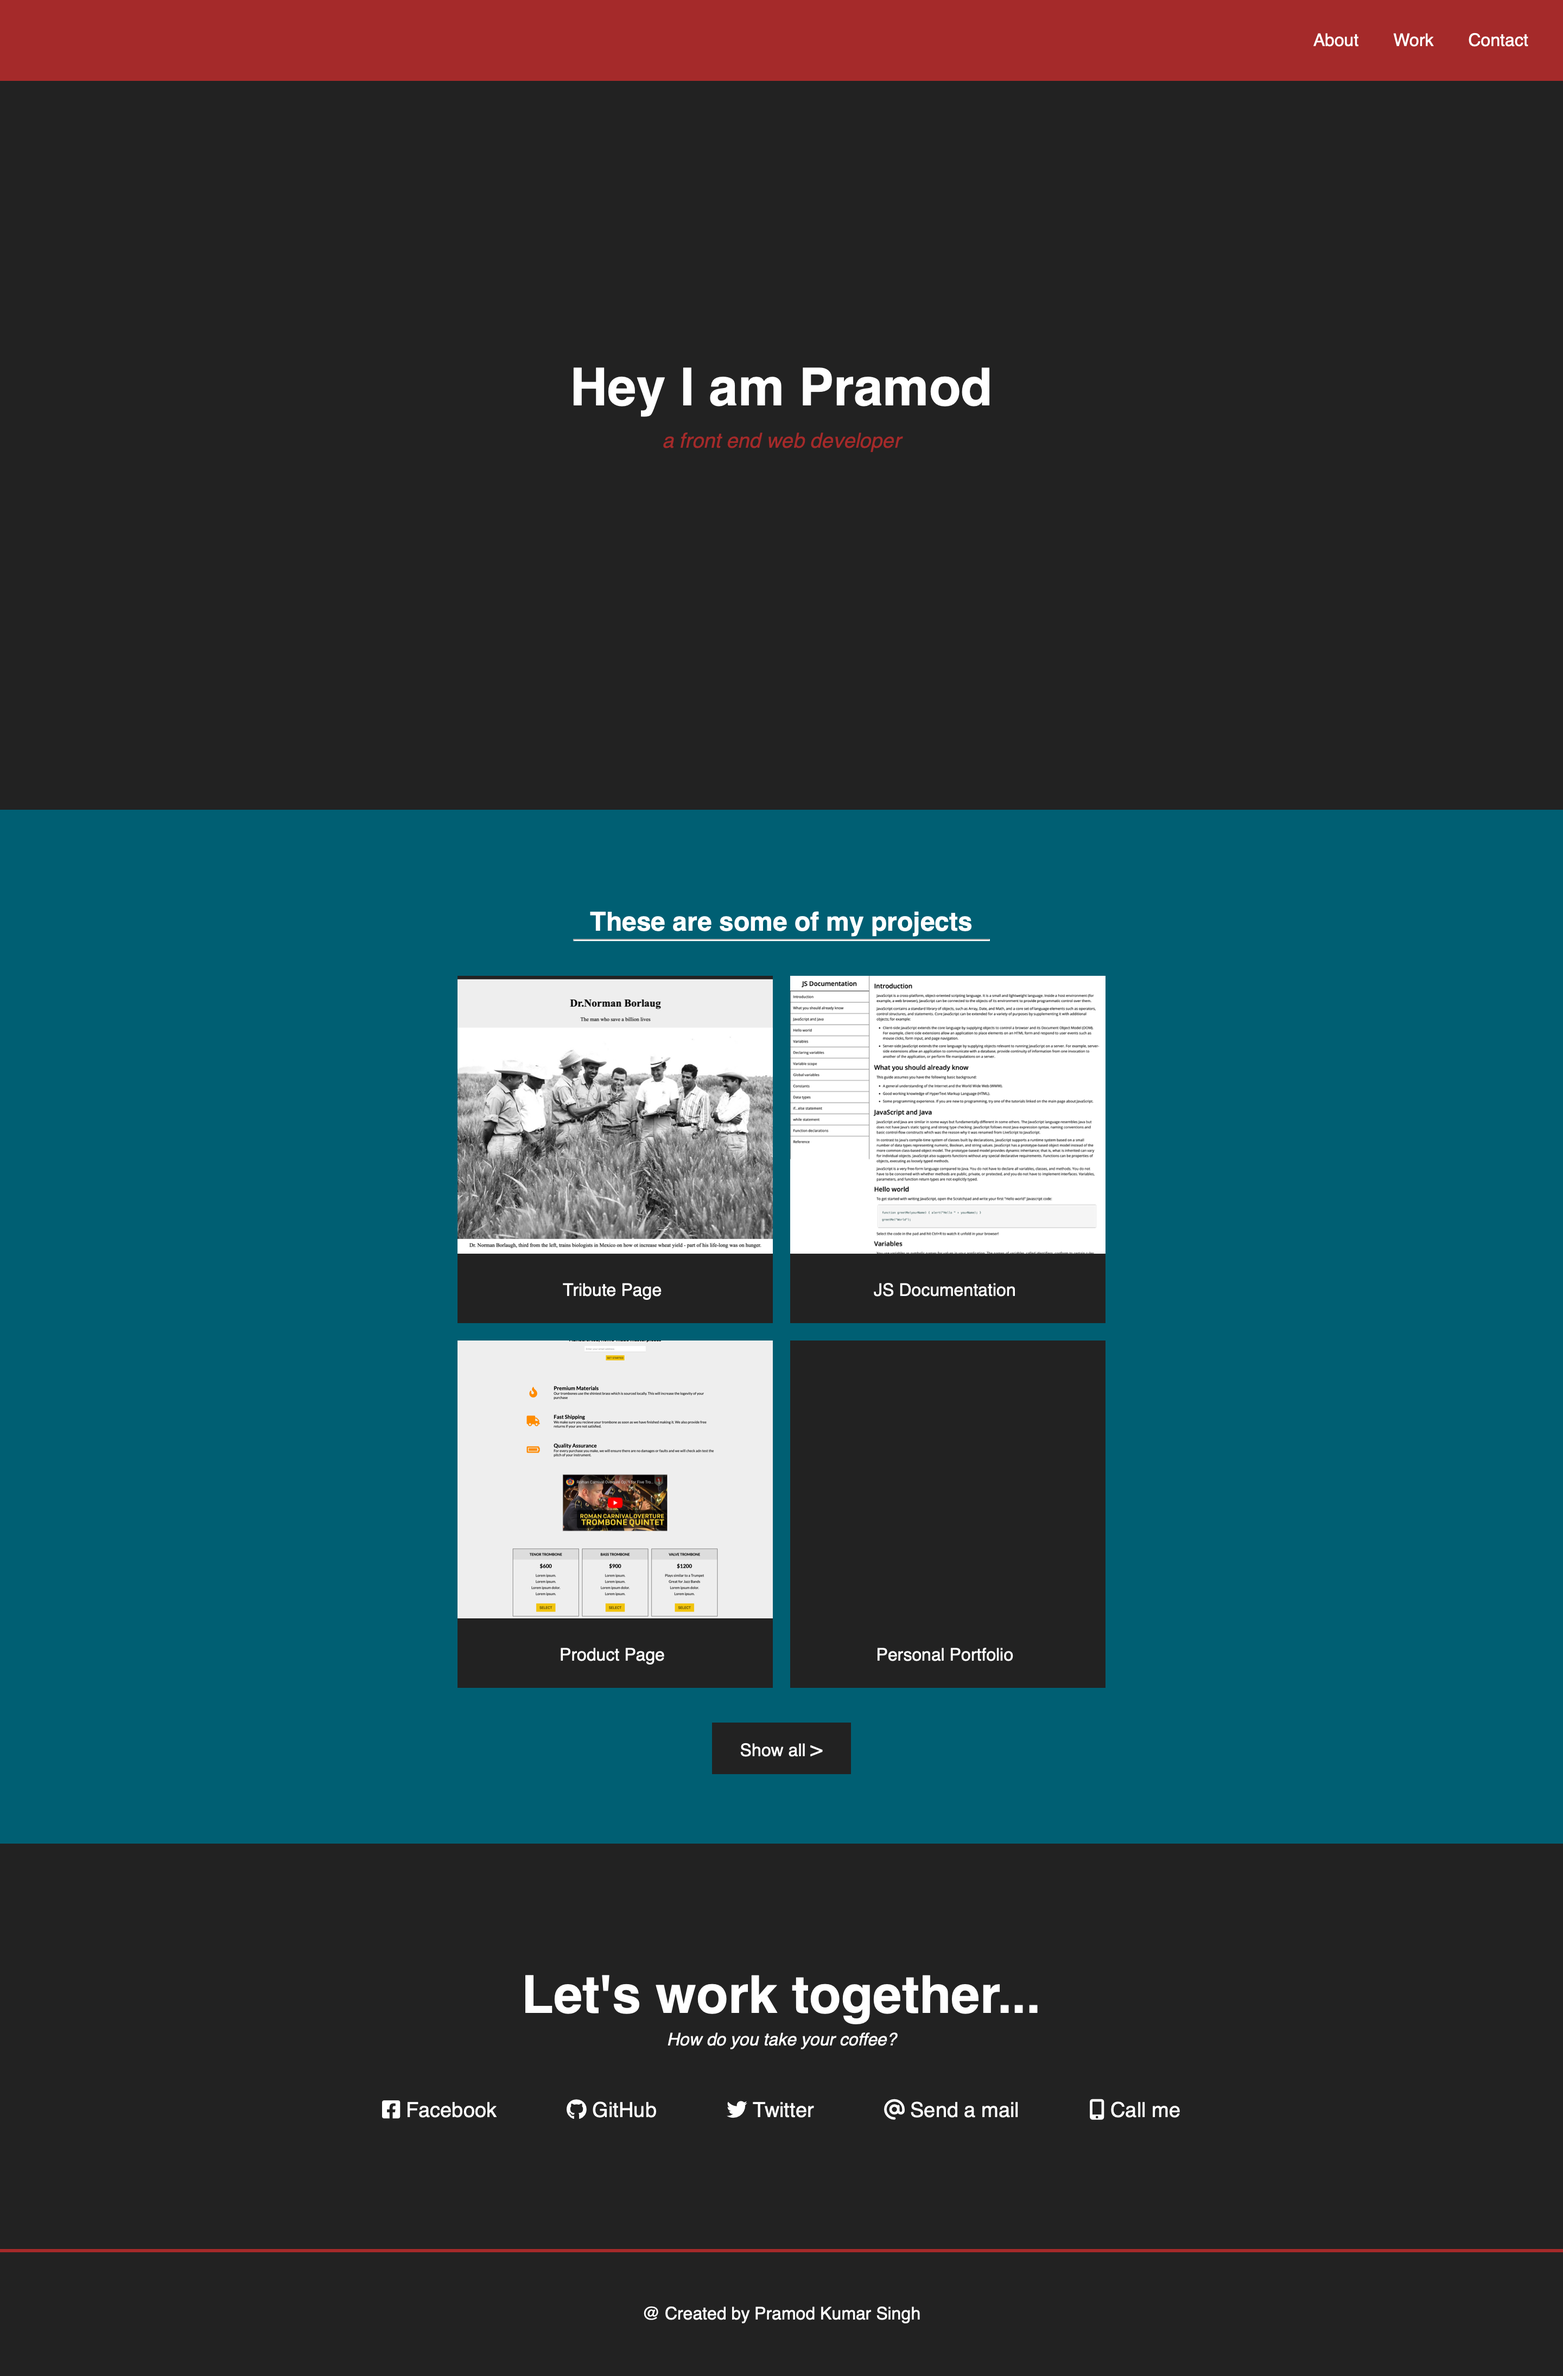
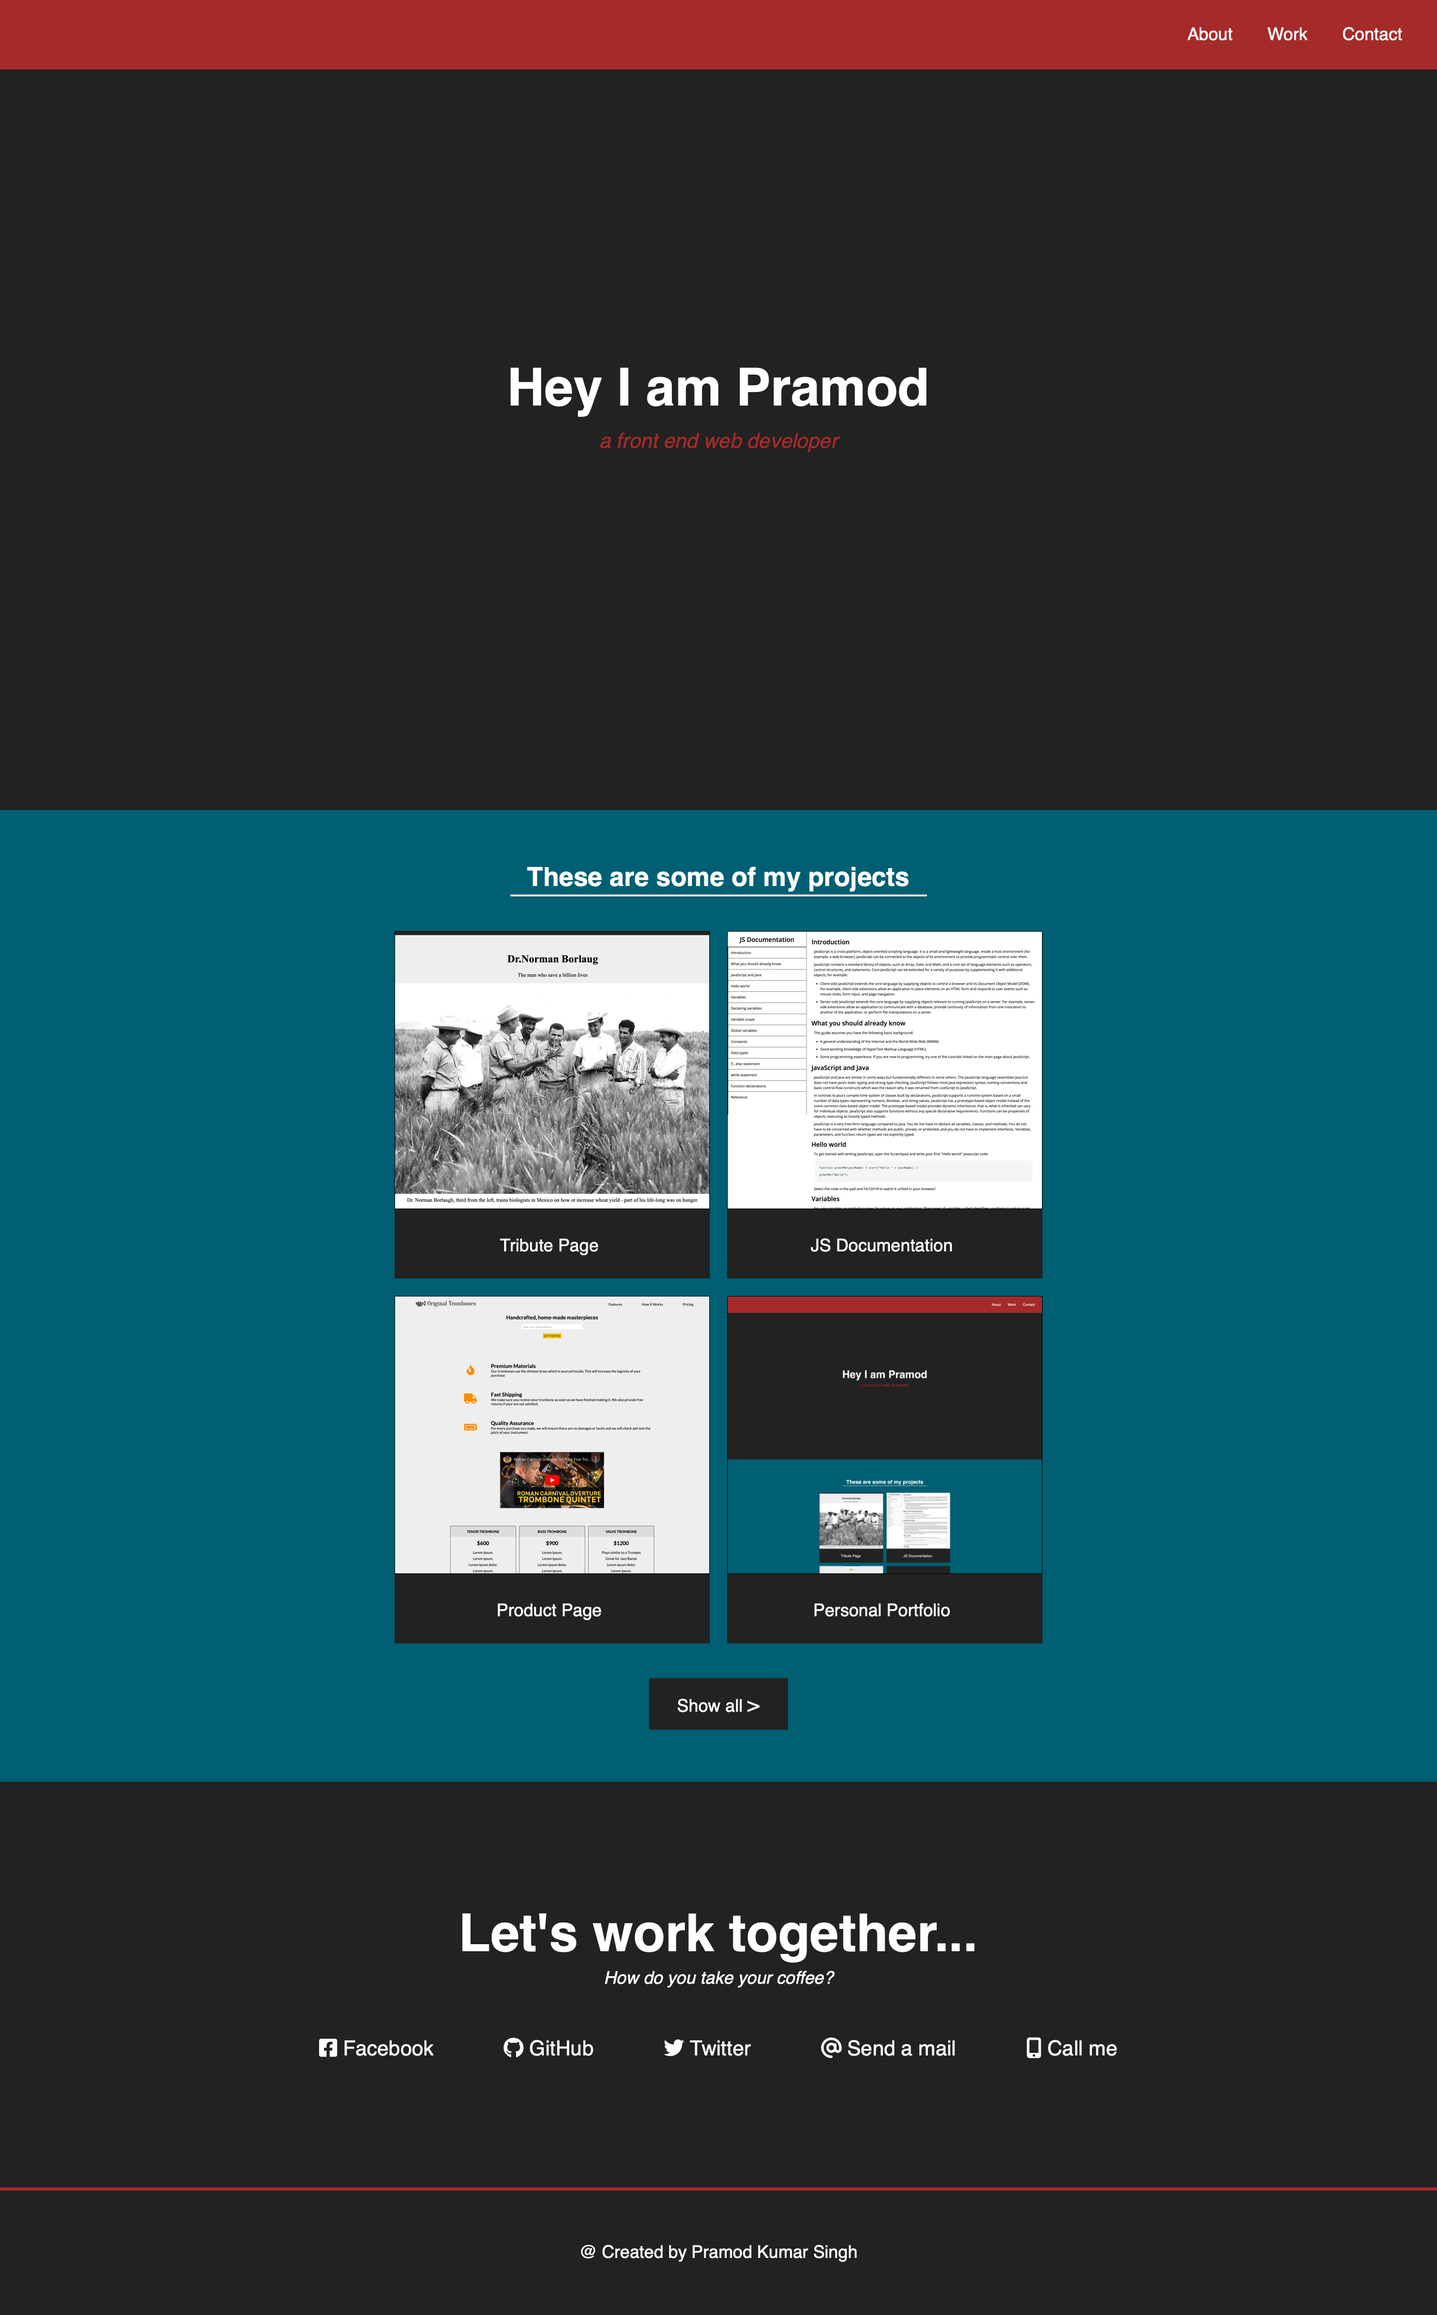
style: updated portfolio section

diff --git a/personal-portfolio/styles.css b/personal-portfolio/styles.css
@@ -23,7 +23,7 @@ a {
 }
 
 #navbar {
-    height: 10vh;
+    height: 4rem;
     width: 100%;
     background-color: brown;
     position: fixed;
@@ -34,7 +34,6 @@ a {
 }
 
 #navbar a {
-    
     margin-right: 2em;
 }
 
@@ -61,7 +60,7 @@ a {
 
 #projects {
   background-color: #005f73;
-  padding: 12vh 2em 4em;
+  padding: 3em;
 }
 
 #projects h2 {
@@ -84,14 +83,12 @@ a {
 
 .project-link {
     display: inline-block;
-    background-color: yellow;
     width: 100%;
     min-height: 20em;
 }
 
 #projects .project-tile {
   height: 100%;
-  width: 100%;
   display: flex;
   flex-direction: column;
   justify-content: space-between;
@@ -104,12 +101,13 @@ a {
   height: 80%;
   width: 100%;
   /* background: linear-gradient(45deg, cyan, white); */
+  border: 0.5px solid black;
 }
 
 .first-project {
     background: url(./images/tribute.png);    
     background-size: cover;
-    background-position: center;
+    background-position: center top;
 }
 
 .second-project {
@@ -122,13 +120,15 @@ a {
 .third-project {
     background: url(./images/product.png);  
     background-size: cover;
-    background-position: center;  
+    background-position: center top;  
 }
 
 .fourth-project {
     background: url(./images/portfolio.png);    
-    /* background-size: cover; */
-    background-position: center;
+    background-size: 100%;
+    background-repeat: no-repeat;
+    background-position: center top;
+
 }
 
 #projects .project-title {

diff --git a/personal-portfolio/index.html b/personal-portfolio/index.html
@@ -26,7 +26,7 @@
         <h2>These are some of my projects</h2>
         <hr />
         <div class="container">
-          <a class="project-link" href="">
+          <a class="project-link" href="#">
             <div class="project-tile">
               <div class="project-image first-project"></div>
               <div class="project-title">
